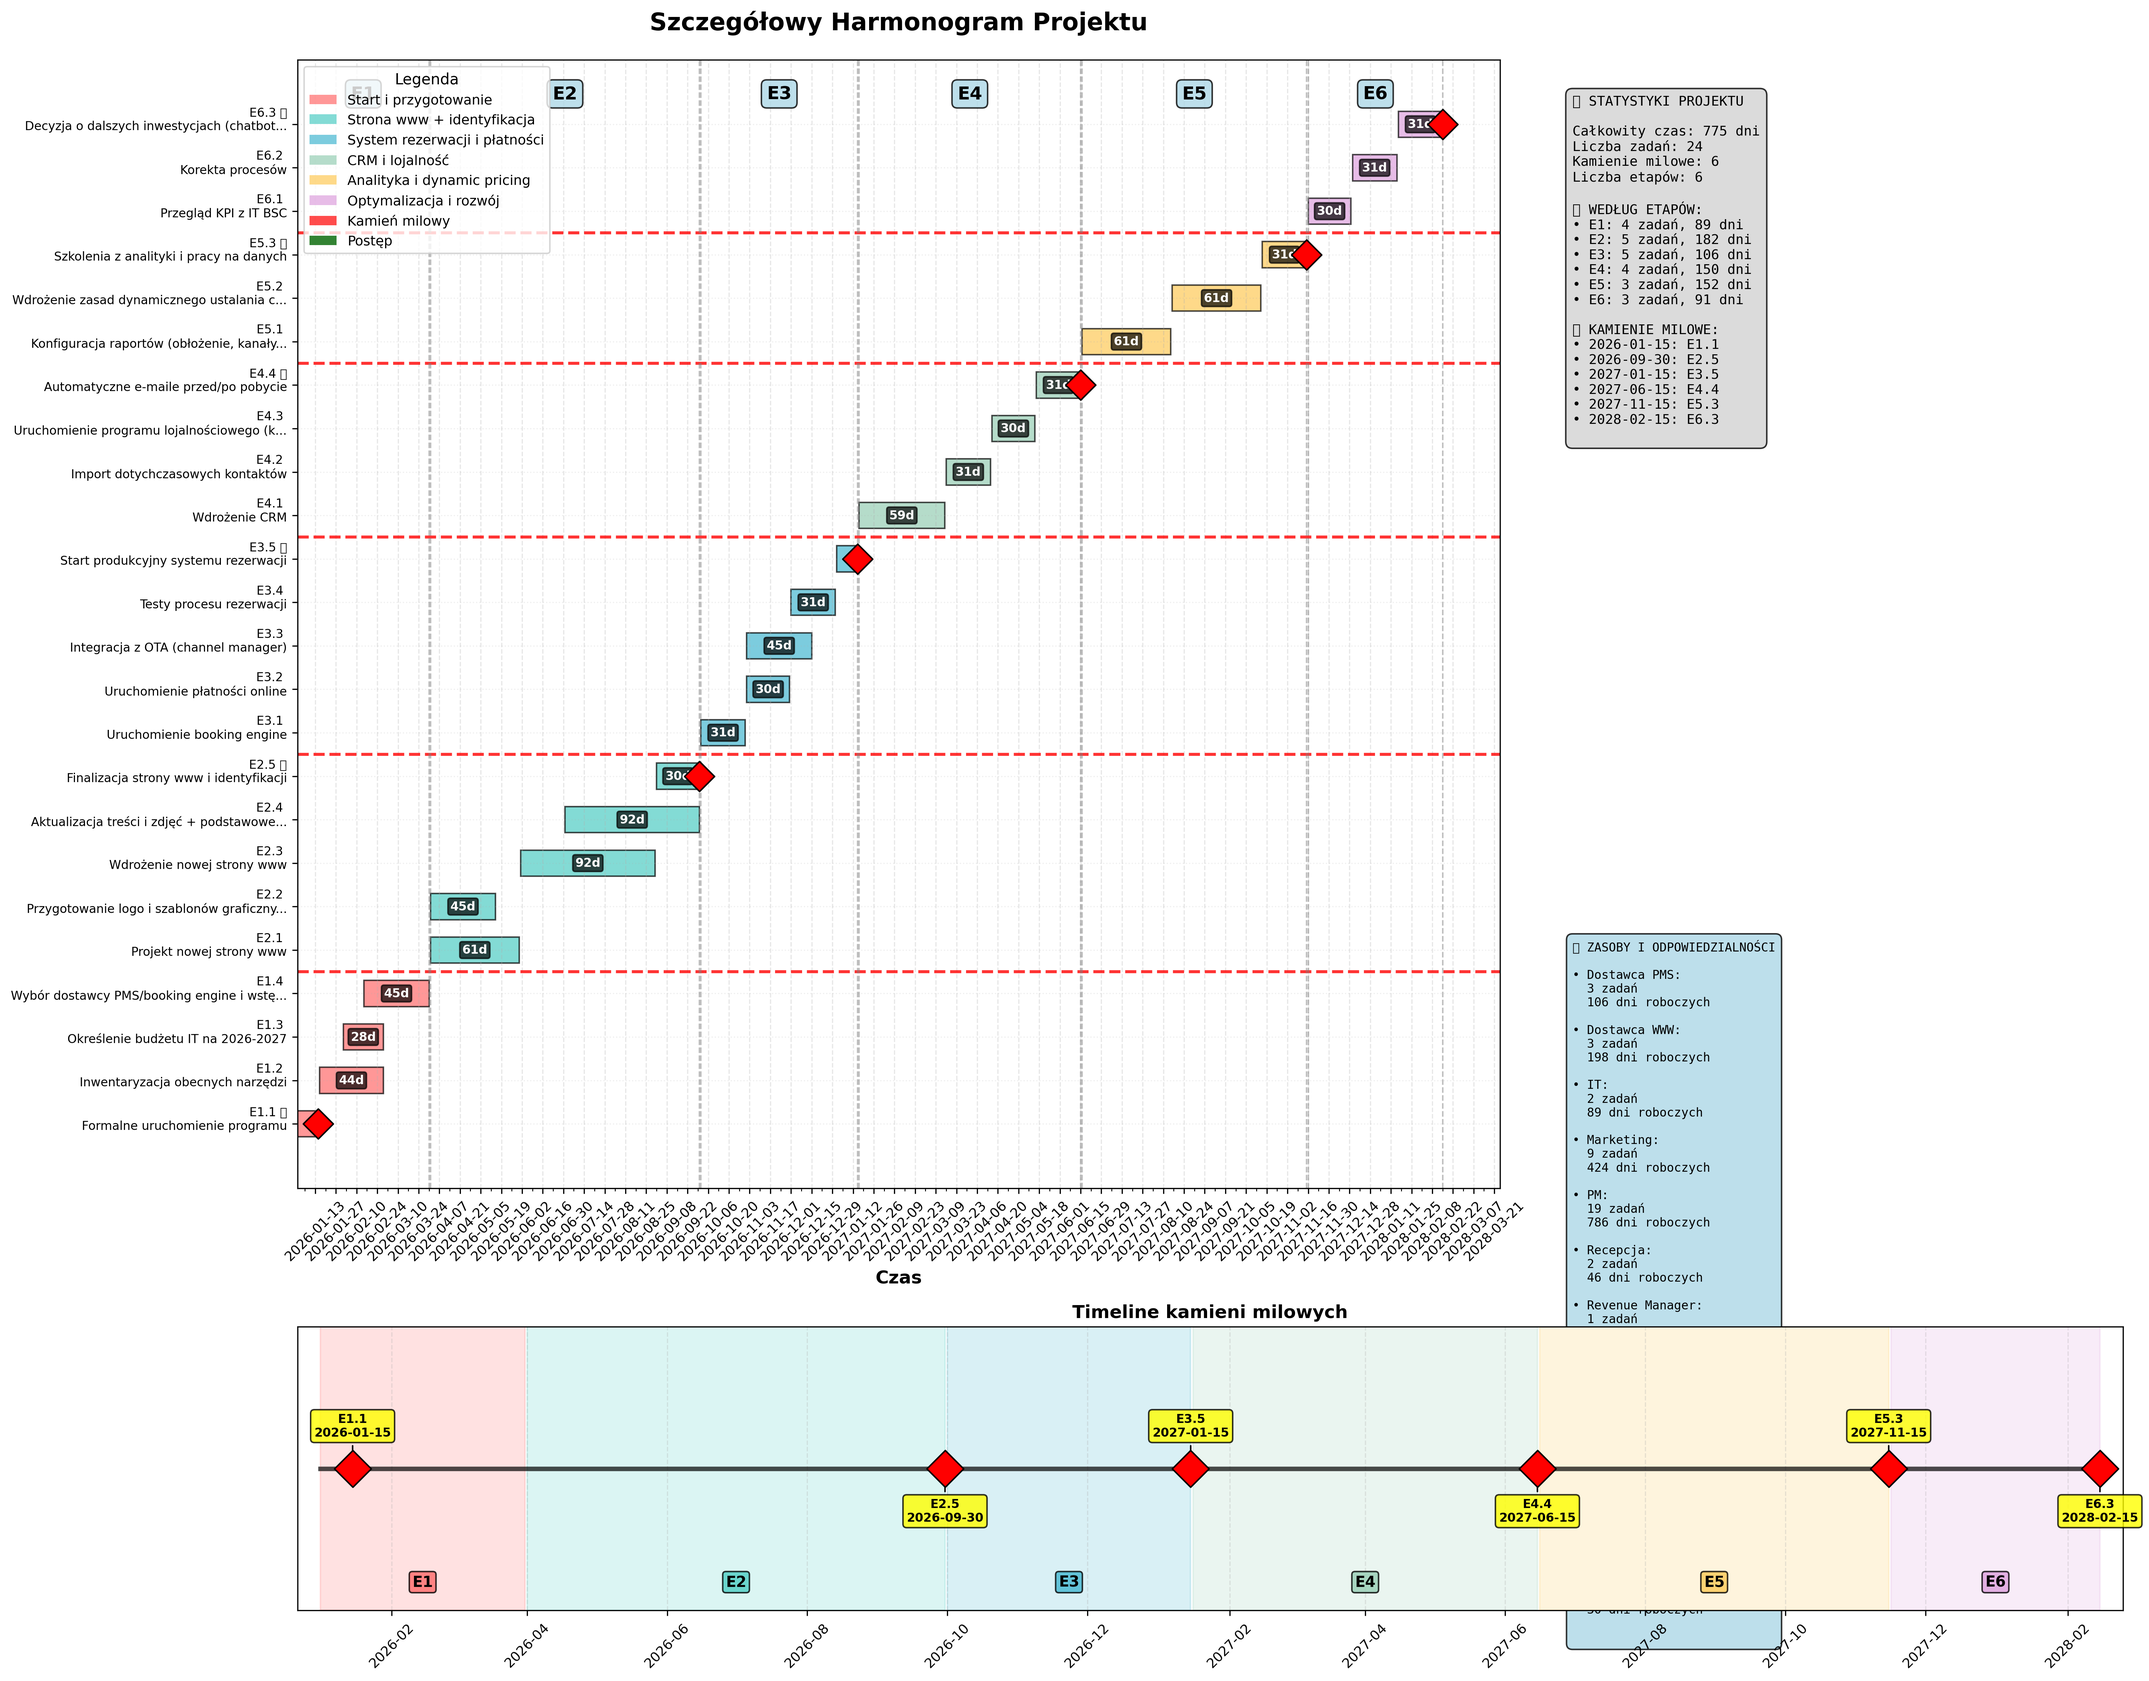
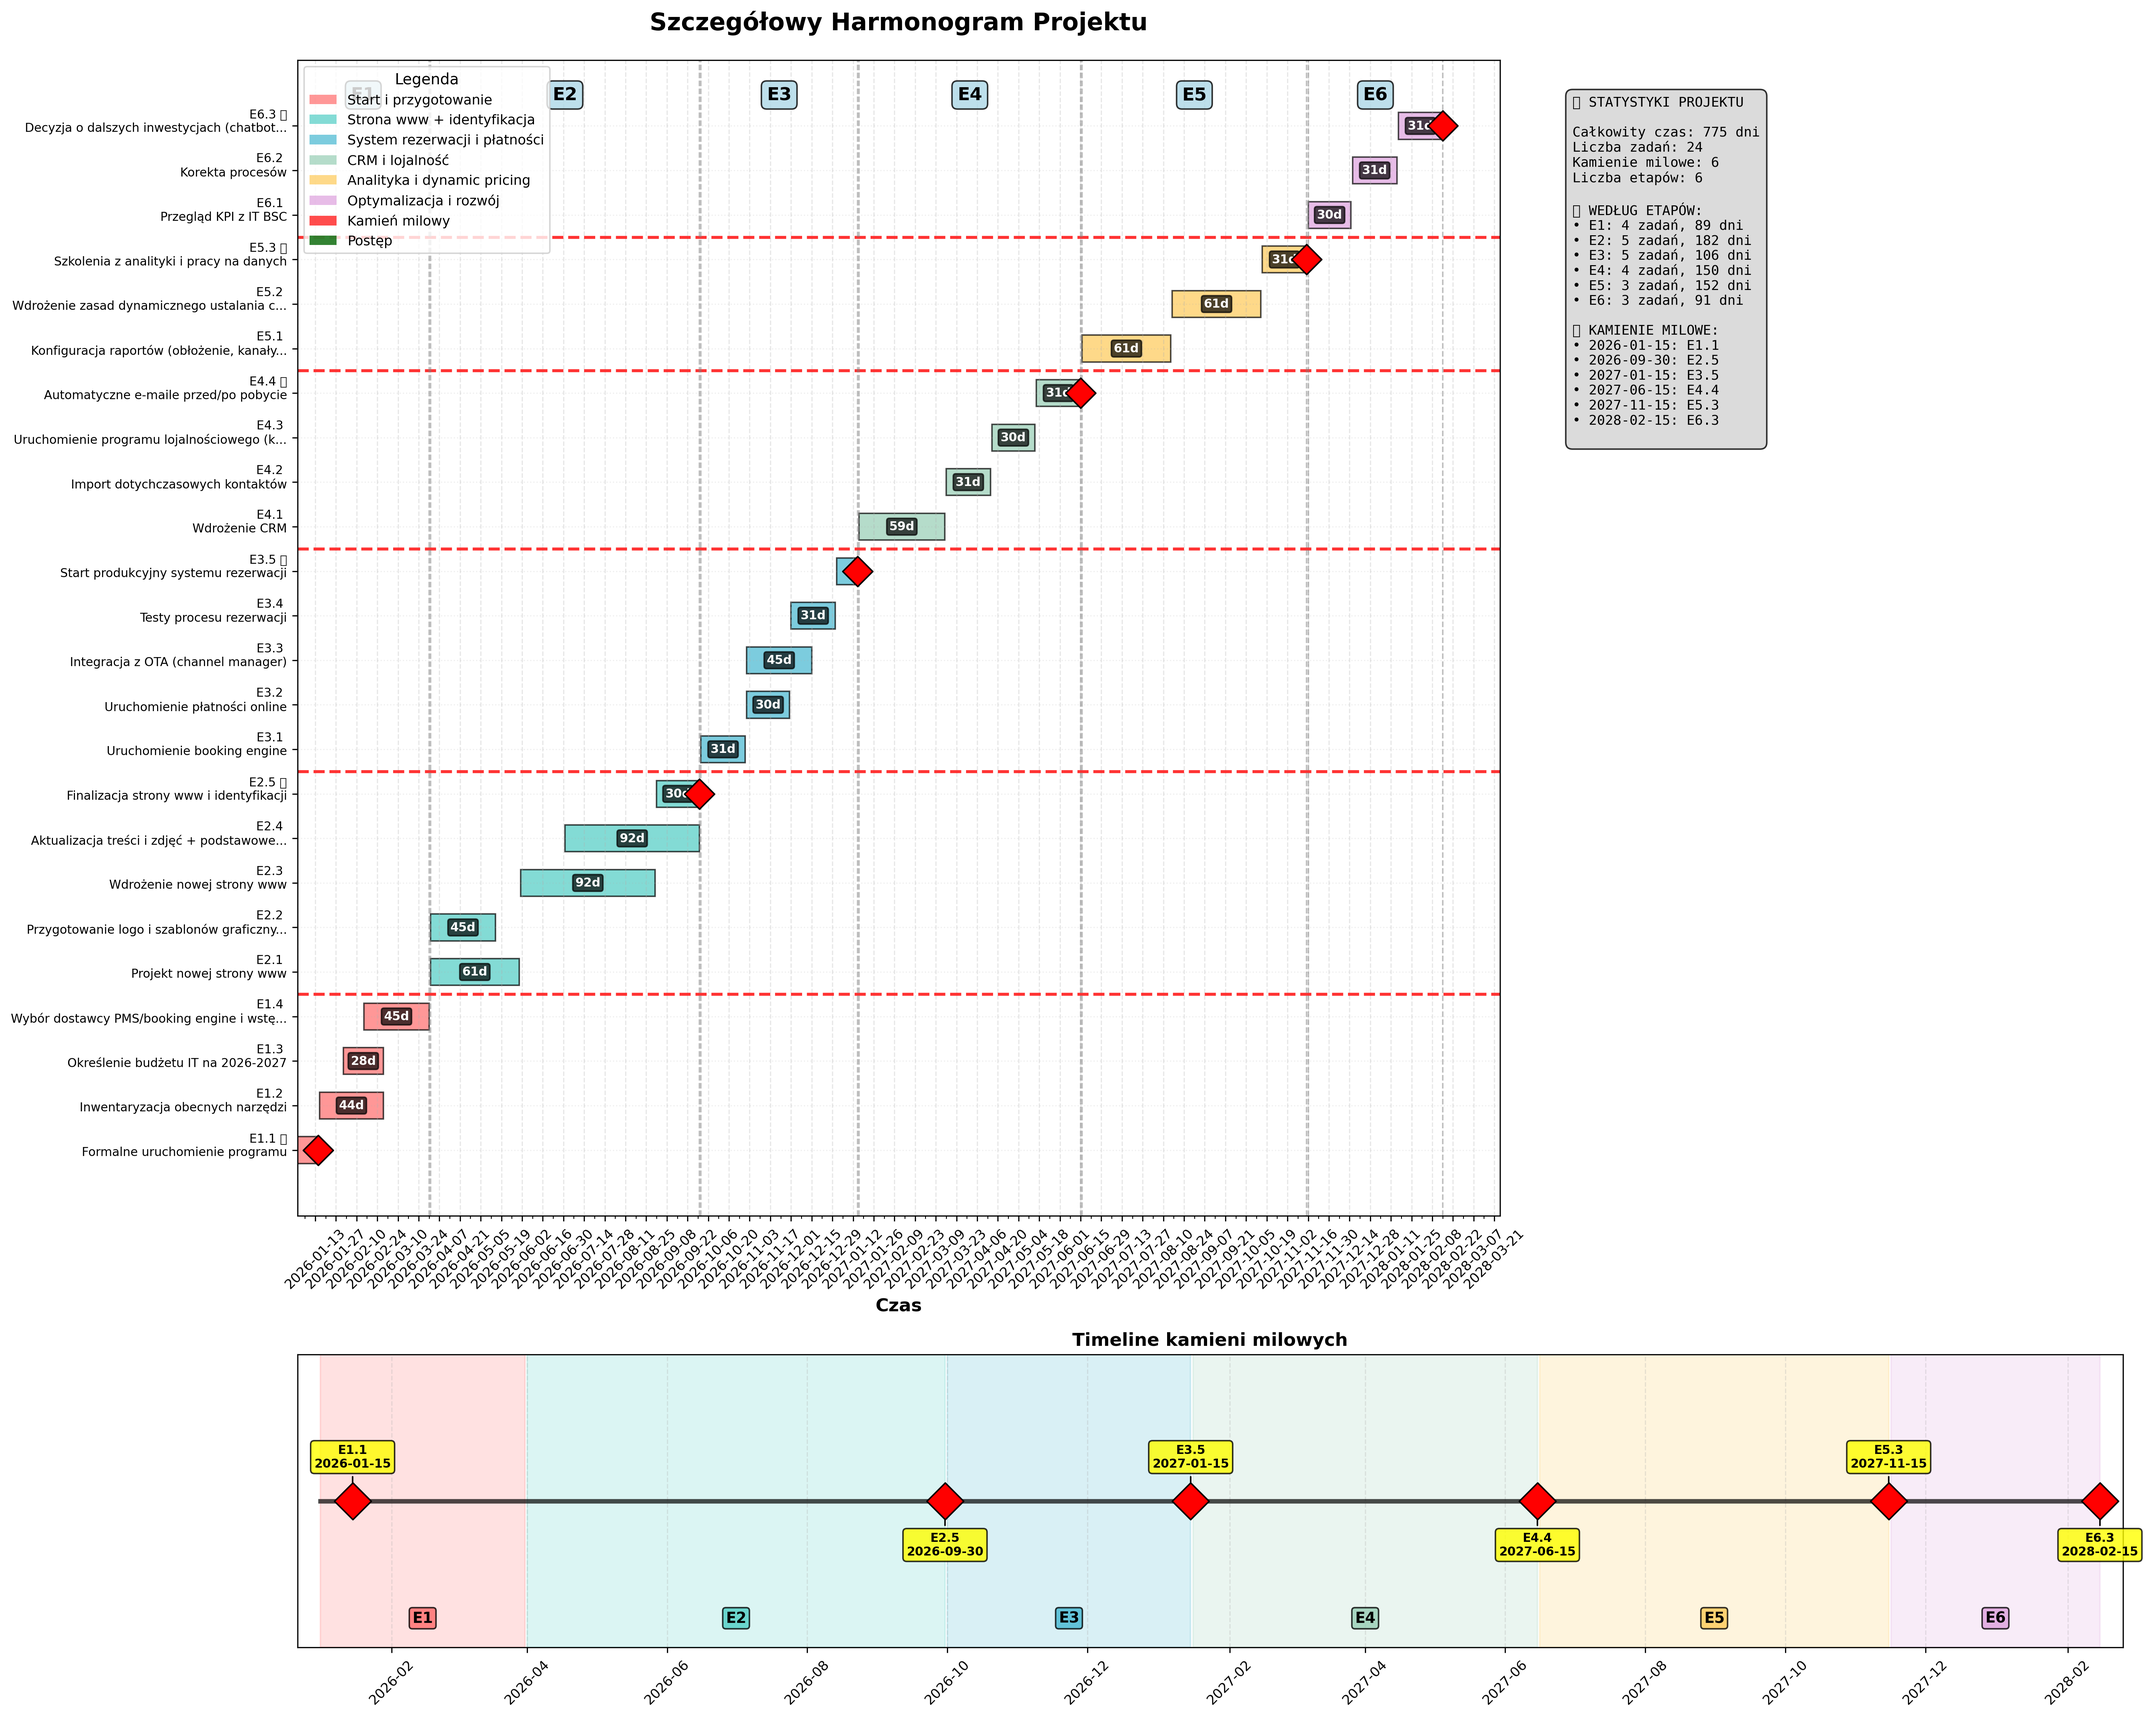
Remove commented-out resource analysis code from detailed schedule generation

diff --git a/harmonogram/main.py b/harmonogram/main.py
@@ -1057,25 +1057,25 @@ def generate_detailed_schedule(tasks, filename_prefix="detailed_schedule"):
     ax3.axis('off')
     
     # Analiza zasobów
-    resources_text = "👥 ZASOBY I ODPOWIEDZIALNOŚCI\n\n"
-    all_resources = set()
-    for task in tasks:
-        if task['resource']:
-            task_resources = [r.strip() for r in task['resource'].split('+')]
-            all_resources.update(task_resources)
+    # resources_text = "👥 ZASOBY I ODPOWIEDZIALNOŚCI\n\n"
+    # all_resources = set()
+    # for task in tasks:
+    #     if task['resource']:
+    #         task_resources = [r.strip() for r in task['resource'].split('+')]
+    #         all_resources.update(task_resources)
     
-    for resource in sorted(all_resources):
-        resource_tasks = df[df['resource'].str.contains(resource, na=False)]
-        resources_text += f"• {resource}:\n"
-        resources_text += f"  {len(resource_tasks)} zadań\n"
-        if len(resource_tasks) > 0:
-            total_days = resource_tasks['duration_days'].sum()
-            resources_text += f"  {total_days} dni roboczych\n"
-        resources_text += "\n"
+    # for resource in sorted(all_resources):
+    #     resource_tasks = df[df['resource'].str.contains(resource, na=False)]
+    #     resources_text += f"• {resource}:\n"
+    #     resources_text += f"  {len(resource_tasks)} zadań\n"
+    #     if len(resource_tasks) > 0:
+    #         total_days = resource_tasks['duration_days'].sum()
+    #         resources_text += f"  {total_days} dni roboczych\n"
+    #     resources_text += "\n"
     
-    ax3.text(0.05, 0.95, resources_text, transform=ax3.transAxes, fontsize=8,
-            verticalalignment='top', fontfamily='monospace',
-            bbox=dict(boxstyle='round,pad=0.5', facecolor='lightblue', alpha=0.8))
+    # ax3.text(0.05, 0.95, resources_text, transform=ax3.transAxes, fontsize=8,
+    #         verticalalignment='top', fontfamily='monospace',
+    #         bbox=dict(boxstyle='round,pad=0.5', facecolor='lightblue', alpha=0.8))
     
     # Timeline z kamieniami milowymi (ax4)
     ax4 = plt.subplot2grid((4, 3), (3, 0), colspan=3)
